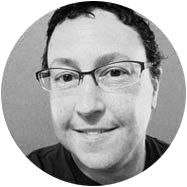
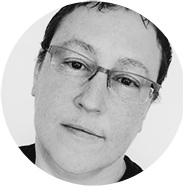
Add portrait for tracy

diff --git a/page-fellows.php b/page-fellows.php
@@ -82,7 +82,7 @@
           <a href="/hevga2wp/fellow-tracy-fullerton/">
             <div class="col-sm-6 col-md-4 pad20 ec-profile">
               <div class="row">
-                <img src="<?php echo get_template_directory_uri(); ?>/img/portraits/portrait_none.gif" class="center-block"/>
+                <img src="<?php echo get_template_directory_uri(); ?>/img/portraits/portrait_tracy.png" class="center-block"/>
               </div>
               <div class="row mar15-top">
                 <h4 class="text-dblue text-center">Tracy Fullerton</h4>

diff --git a/fellows/fellow-tracy-fullerton.php b/fellows/fellow-tracy-fullerton.php
@@ -15,7 +15,7 @@
       <div class="col-md-3">
         <div class="row pad20 bg-green">
           <div class="row">
-            <img src="<?php echo get_template_directory_uri(); ?>/img/portraits/portrait_none.gif" class="center-block"/>
+            <img src="<?php echo get_template_directory_uri(); ?>/img/portraits/portrait_tracy.png" class="center-block"/>
           </div>
           <div class="row mar15-top">
             <h3 class="text-white text-center">Tracy Fullerton</h3>
